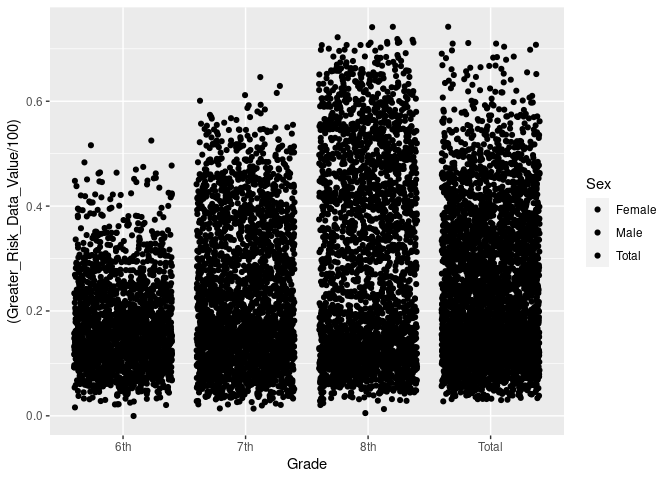
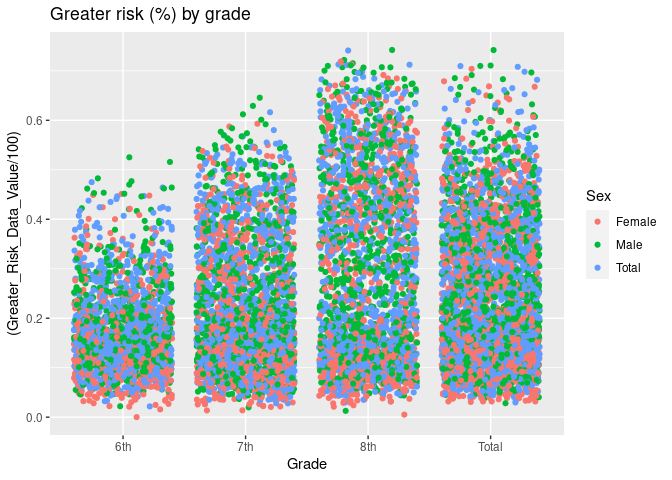
djdjdjd

diff --git a/proposal/proposal.md b/proposal/proposal.md
@@ -208,15 +208,32 @@ Weight_Issues_Edited <- Weight_Issues %>%
 ```
 
 ``` r
-Substance_Abuse_Edited %>%
-  group_by(Sex) %>%
-ggplot(aes(x=Grade, y = (Greater_Risk_Data_Value/100), fill=Sex)) +
-  geom_jitter()
+  ggplot(Substance_Abuse_Edited ,aes(x=Grade, y = (Greater_Risk_Data_Value/100))) +
+  geom_jitter(aes(colour = Sex))+
+  labs(title = "Greater risk (%) by grade",
+       x = "Grade",
+       Y = "Greater Risk percentage (%)")
 ```
 
     ## Warning: Removed 22131 rows containing missing values (geom_point).
 
 ![](proposal_files/figure-gfm/unnamed-chunk-6-1.png)<!-- -->
+
+``` r
+Substance_Abuse_Edited %>%
+  group_by(Sex) %>%
+ggplot(aes(x=Grade, y = Pop_at_Grisk,colour = Sex)) +
+  geom_jitter() +
+  geom_smooth(method = "lm", se = FALSE)
+```
+
+    ## `geom_smooth()` using formula 'y ~ x'
+
+    ## Warning: Removed 22131 rows containing non-finite values (stat_smooth).
+
+    ## Warning: Removed 22131 rows containing missing values (geom_point).
+
+![](proposal_files/figure-gfm/unnamed-chunk-6-2.png)<!-- -->
 
 This graph shows the amount of each grade that is represented on this
 list of Substance Abuse related events grouping by Sex. This shows a
